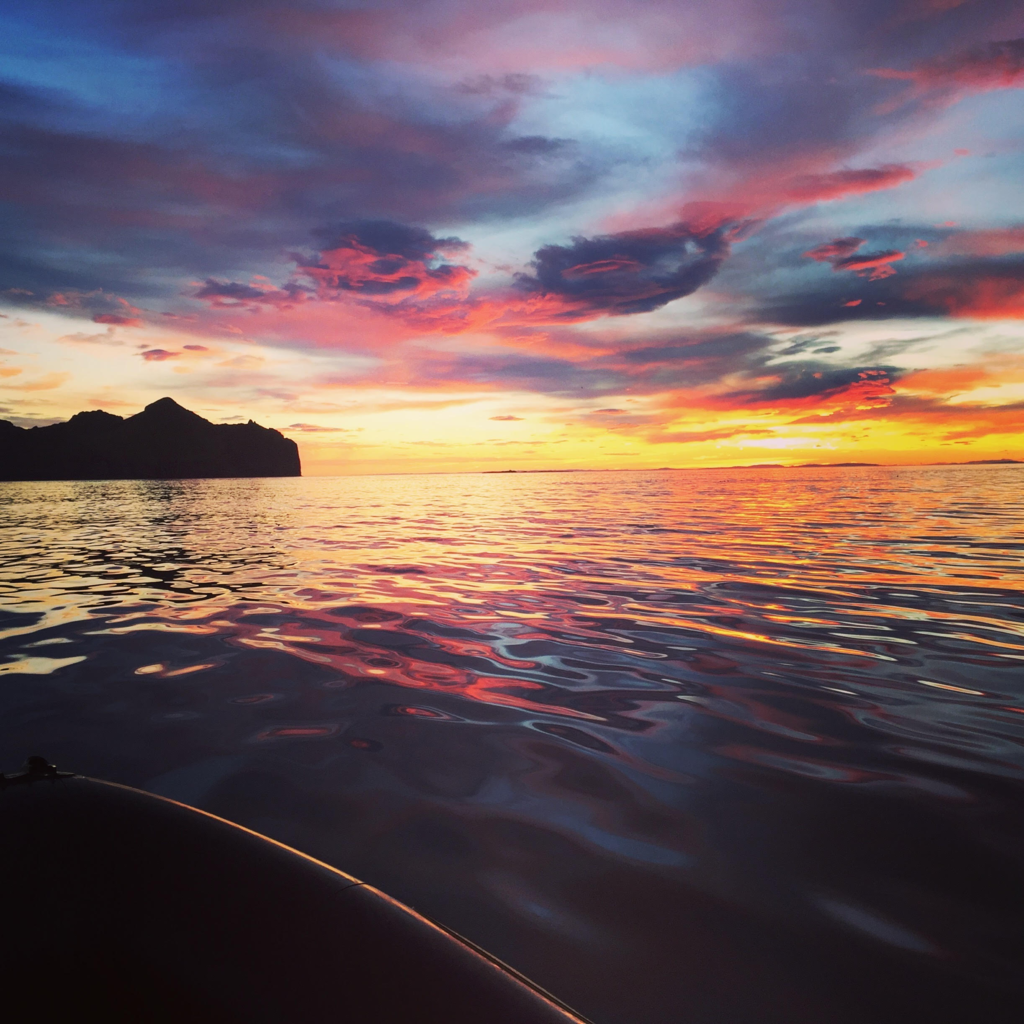
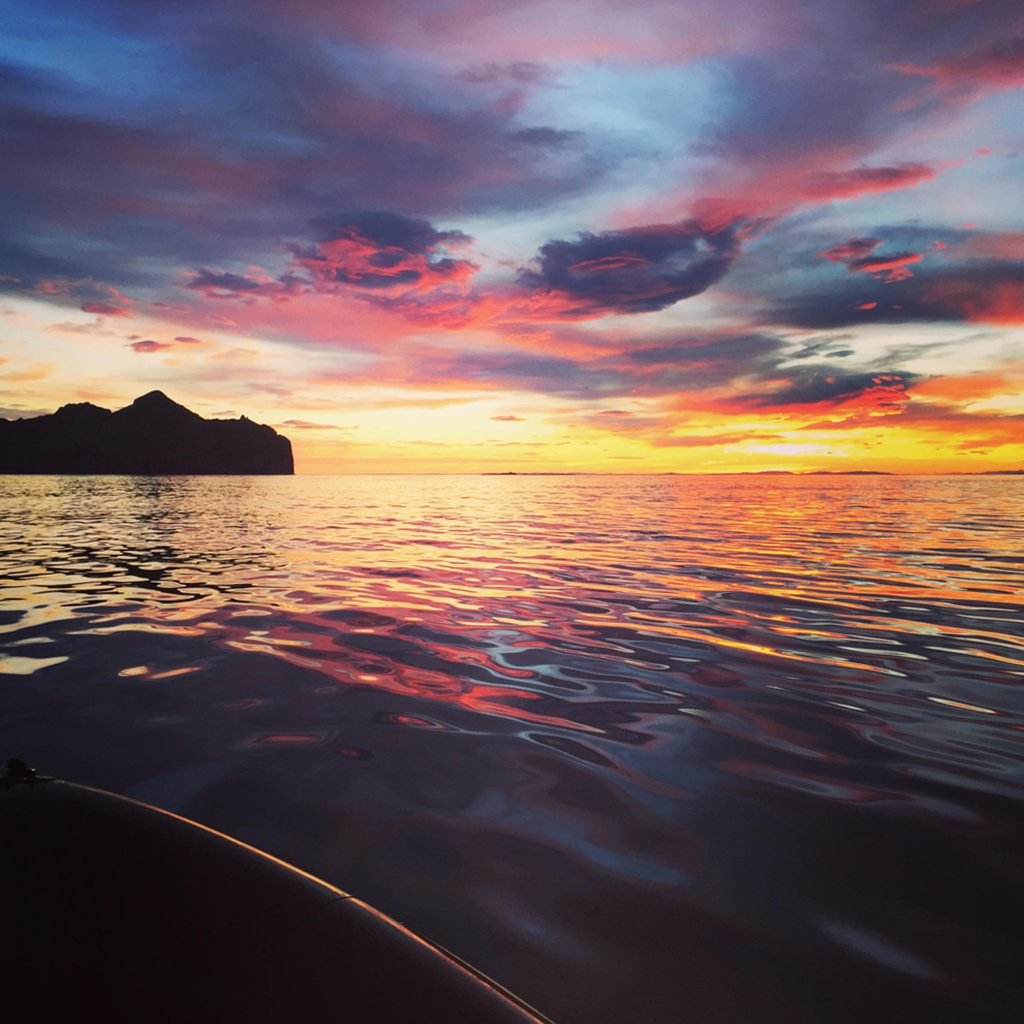
Fixing tilt of image Journey

diff --git a/src/components/experience/ExperiencePage.jsx b/src/components/experience/ExperiencePage.jsx
@@ -22,7 +22,7 @@ export default class IslandPage extends PureComponent {
           <p>{ 'Your journey starts in Westman Islands where you sail off to Elliðaey. That is where we greet you and assist you in climbing the cliffs, step by step into the arms of Mother Nature, where the home of thousands of birds await you. At the hunting lodge a chef prepares a lunch with ingredients foraged from around Elliðaey. With the whole day ahead you start your journey exploring the island. Each journey is totally unique and tailored to the specific needs of small groups, families or couples, which have exclusive use of the hunting lodge. Only a few trips are available each summer.' }</p>
         </div>
         <div className={ defaultStyles.imageSegment }>
-          <img src="http://i.imgur.com/te3QgFi.png" />
+          <img src="http://i.imgur.com/REFbQ67.jpg" />
         </div>
       </div>
     );
